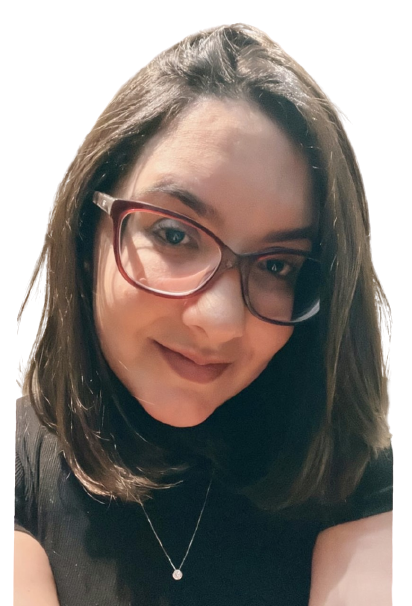
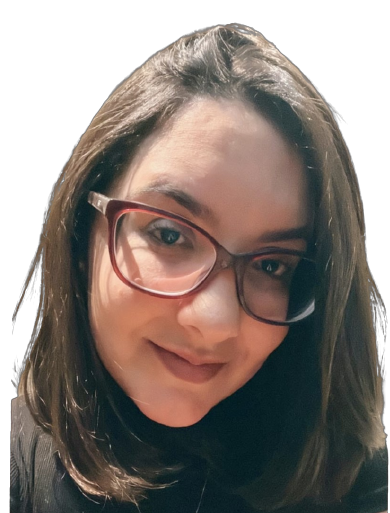
Add files via upload

diff --git a/index.html b/index.html
@@ -15,7 +15,7 @@
 	<!-- Preload large image -->
 
 	<!-- Stylesheets -->
-    <link rel="stylesheet" href="https://lunevedy.netlify.app/assets/css/lunevedy.min.css" />
+    <link rel="stylesheet" href="https://lunevedy.com/assets/2.0/css/lunevedy.min.css" />
     <link rel="stylesheet" href="./assets/css/custom.css" />
 
 	<!-- Google Fonts -->
@@ -68,7 +68,7 @@
 
 	<!-- header starts here -->
 
-    <header class="cols-2-half text-center-mobile theme-dark desktop-min-height-80vh" style="background-color: var(--trend-050) ">
+    <header class="cols-2-half text-center-mobile theme-dark" style="background-color: var(--trend-050)">
 
         <div class="col-2 col-text">
             <h1 style="color: black;">Patricia <span class="highlight" style="color: black;">Vicente</span></h1>
@@ -83,7 +83,7 @@
 
         <div class="col-2 col-visual desktop-bleed-all">
             <figure>
-                <img src="./assets/img/PatriciaVicente.png" style="object-position: center;" alt="Placeholder image">
+                <img src="./assets/img/PatriciaVicente.png" style="object-position: center top;" alt="Placeholder image">
             </figure>
         </div>
 
@@ -91,6 +91,7 @@
 
 
 	<!-- header ends here -->
+
 
     <!-- main content with sections -->
     <main>

diff --git a/contact/index.html b/contact/index.html
@@ -15,7 +15,7 @@
 	<!-- Preload large image -->
 
 	<!-- Stylesheets -->
-    <link rel="stylesheet" href="https://lunevedy.com/assets/css/lunevedy.min.css" />
+    <link rel="stylesheet" href="https://lunevedy.com/assets/2.0/css/lunevedy.min.css" />
     <link rel="stylesheet" href="../assets/css/custom.css" />
 
 	<!-- Google Fonts -->
@@ -30,6 +30,7 @@
 		header.theme-light { background-color: var(--trend-050) }
 		header.theme-light h1, header.theme-light h2 { font-family: 'Playfair Display', serif; }
 	</style>
+    <link rel="stylesheet" href="https://lunevedy.com/assets/2.0/css/lunevedy.min.css" />
 
 </head>
 
@@ -63,7 +64,7 @@
     </nav>
 
     <!-- header starts here -->
-    <header class="theme-light text-center-mobile header-after-menu-sticky">
+    <header class="theme-light text-center-mobile">
 
         <div class="container-text">
             <h1>Contact</h1>
@@ -142,6 +143,7 @@
 	</footer>
 
     <script src="https://lunevedy.com/assets/js/lunevedy.js"></script>
+    
 
 </body>
 </html>
